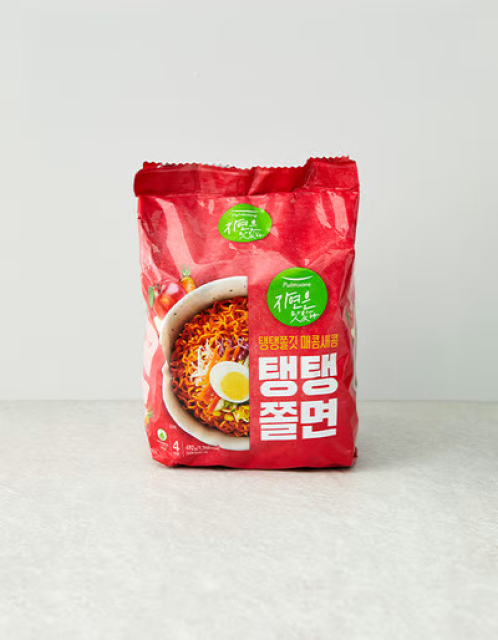
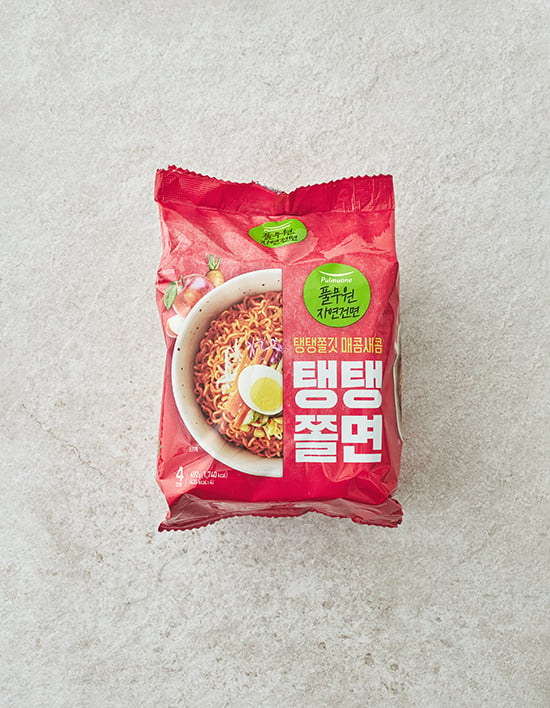
메인페이지 내 상품 이미지 고화질로 변경(lighthouse 권장사항)

diff --git a/client/index.html b/client/index.html
@@ -3,12 +3,13 @@
   <head>
     <meta charset="UTF-8" />
     <meta http-equiv="X-UA-Compatible" content="IE=edge" />
-    <meta name="viewport" content="width=device-width, initial-scale=1.0" />
+    <meta name="keyword" content="마켓칼리, 칼리, 마켓, 쇼핑, 장보기" />
     <meta name="description" content="Market Kurly Imitation" />
+    <meta name="author" content="LikeLion Lab17 Member" />
+    <meta name="viewport" content="width=device-width, initial-scale=1.0" />
     <title>마켓칼리</title>
     <link rel="shortcut icon" href="/favicon.ico" type="image/x-icon" />
-    <link rel="icon" href="/favicon.ico" type="image/x-icon" />
-
+    <link rel="icon" href="./assets/index/favicon.ico" type="image/x-icon" />
     <link
       rel="stylesheet"
       href="https://cdn.jsdelivr.net/npm/swiper@8/swiper-bundle.min.css"
@@ -33,17 +34,26 @@
         <div class="swiper index_visual_swiper">
           <div class="swiper-wrapper">
             <div class="swiper-slide">
-              <img src="./assets/index/main_banner1.jpg" alt="바쁜 일상으로 복귀 추천 한 끼 총집합" />
+              <img
+                src="./assets/index/main_banner1.jpg"
+                alt="바쁜 일상으로 복귀 추천 한 끼 총집합"
+              />
             </div>
             <div class="swiper-slide">
-              <img src="./assets/index/main_banner2.jpg" alt="뷰티컬리에서 산타마리아노벨라 특별 EVENT 진행중!" />
+              <img
+                src="./assets/index/main_banner2.jpg"
+                alt="뷰티컬리에서 산타마리아노벨라 특별 EVENT 진행중!"
+              />
             </div>
             <div class="swiper-slide">
-              <img src="./assets/index/main_banner3.jpg" alt="올해도 빵빵 터지는 문전성시 컬리 빵집" />
+              <img
+                src="./assets/index/main_banner3.jpg"
+                alt="올해도 빵빵 터지는 문전성시 컬리 빵집"
+              />
             </div>
           </div>
           <div class="swiper-pagination"></div>
-          <div class="swiper-button-prev"></div>       
+          <div class="swiper-button-prev"></div>
           <div class="swiper-button-next"></div>
         </div>
       </div>
@@ -51,54 +61,103 @@
         <h2>이 상품 어때요?</h2>
         <!-- Swiper -->
         <div class="swiper index_recommend_product_swiper">
-          <div class="swiper-button-prev"></div>      
+          <div class="swiper-button-prev"></div>
           <div class="swiper-button-next"></div>
           <div class="swiper-wrapper">
             <div class="swiper-slide">
               <ul>
                 <li>
-                  <a class="index_recommend_product_swiper_item" href="./pages/product_detail/product_detail.html" >
-                    <img src="./assets/index/recomment_food1.jpg" alt="풀무원 탱탱쫄면 4개입" />
-                    <p class="recommend_swiper_item_title">[풀무원] 탱탱쫄면 (4개입)</p>
+                  <a
+                    class="index_recommend_product_swiper_item"
+                    href="./pages/product_detail/product_detail.html"
+                  >
+                    <img
+                      src="./assets/index/recomment_food1.jpg"
+                      alt="풀무원 탱탱쫄면 4개입"
+                    />
+                    <p class="recommend_swiper_item_title">
+                      [풀무원] 탱탱쫄면 (4개입)
+                    </p>
                     <p class="recommend_swiper_item_price">4,980 원</p>
                     <div class="recommend_swiper_item_cart" tabindex="0">
-                      <img src="./assets/index/icon_cart.png" alt="장바구니 버튼" />
-                    </div>                    
+                      <img
+                        src="./assets/index/icon_cart.png"
+                        alt="장바구니 버튼"
+                      />
+                    </div>
                   </a>
                 </li>
                 <li>
-                  <a class="index_recommend_product_swiper_item" href="#" >
-                    <img class="thumbnail" src="./assets/index/recomment_food2.jpg" alt="온더바디 죠르디 시카 자석 선쿠션" />
-                    <p class="recommend_swiper_item_title">[온더바디] 죠르디 시카 자석 선쿠션</p>
+                  <a
+                    class="index_recommend_product_swiper_item"
+                    href="./pages/product_detail/product_detail.html"
+                  >
+                    <img
+                      class="thumbnail"
+                      src="./assets/index/recomment_food2.jpg"
+                      alt="온더바디 죠르디 시카 자석 선쿠션"
+                    />
+                    <p class="recommend_swiper_item_title">
+                      [온더바디] 죠르디 시카 자석 선쿠션
+                    </p>
                     <p class="recommend_swiper_item_price">32,500 원</p>
                     <div class="recommend_swiper_item_cart" tabindex="0">
-                      <img src="./assets/index/icon_cart.png" alt="장바구니 버튼" />
-                    </div>                    
+                      <img
+                        src="./assets/index/icon_cart.png"
+                        alt="장바구니 버튼"
+                      />
+                    </div>
                   </a>
-                </li>             
+                </li>
                 <li>
-                  <a class="index_recommend_product_swiper_item" href="#" >
-                    <img class="thumbnail" src="./assets/index/recomment_food3.jpg" alt="유기농 밀키퀸 현미 4kg" />
-                    <p class="recommend_swiper_item_title">유기농 밀키퀸 현미 4kg</p>
+                  <a
+                    class="index_recommend_product_swiper_item"
+                    href="./pages/product_detail/product_detail.html"
+                  >
+                    <img
+                      class="thumbnail"
+                      src="./assets/index/recomment_food3.jpg"
+                      alt="유기농 밀키퀸 현미 4kg"
+                    />
+                    <p class="recommend_swiper_item_title">
+                      유기농 밀키퀸 현미 4kg
+                    </p>
                     <p class="recommend_swiper_item_price">25,000 원</p>
                     <div class="recommend_swiper_item_cart" tabindex="0">
-                      <img src="./assets/index/icon_cart.png" alt="장바구니 버튼" />
-                    </div>                    
+                      <img
+                        src="./assets/index/icon_cart.png"
+                        alt="장바구니 버튼"
+                      />
+                    </div>
                   </a>
-                </li>       
+                </li>
                 <li>
-                  <a class="index_recommend_product_swiper_item" href="#" >
-                    <img class="thumbnail" src="./assets/index/recomment_food4.jpg" alt="프로쉬 베이비 세탁세제" />
-                    <p class="recommend_swiper_item_title">[프로쉬] 베이비 세탁세제</p>
-                    <p class="recommend_swiper_item_price"><span>24%</span>18,900 원</p>
+                  <a
+                    class="index_recommend_product_swiper_item"
+                    href="./pages/product_detail/product_detail.html"
+                  >
+                    <img
+                      class="thumbnail"
+                      src="./assets/index/recomment_food4.jpg"
+                      alt="프로쉬 베이비 세탁세제"
+                    />
+                    <p class="recommend_swiper_item_title">
+                      [프로쉬] 베이비 세탁세제
+                    </p>
+                    <p class="recommend_swiper_item_price">
+                      <span>24%</span>18,900 원
+                    </p>
                     <p class="recommend_swiper_item_origin_cost">24,000 원</p>
                     <div class="recommend_swiper_item_cart" tabindex="0">
-                      <img src="./assets/index/icon_cart.png" alt="장바구니 버튼" />
-                    </div>                    
+                      <img
+                        src="./assets/index/icon_cart.png"
+                        alt="장바구니 버튼"
+                      />
+                    </div>
                   </a>
-                </li>                                                                                      
+                </li>
               </ul>
-            </div>      
+            </div>
           </div>
         </div>
       </section>
@@ -109,57 +168,94 @@
         <h2>놓치면 후회할 가격</h2>
         <!-- Swiper -->
         <div class="swiper index_recommend_product_swiper">
-          <div class="swiper-button-prev"></div>      
+          <div class="swiper-button-prev"></div>
           <div class="swiper-button-next"></div>
           <div class="swiper-wrapper">
             <div class="swiper-slide">
               <ul>
                 <li>
-                  <a class="index_recommend_product_swiper_item" href="#" >
-                    <img src="./assets/index/recomment_food1.jpg" alt="풀무원 탱탱쫄면 4개입" />
-                    <p class="recommend_swiper_item_title">[풀무원] 탱탱쫄면 (4개입)</p>
+                  <a class="index_recommend_product_swiper_item" href="#">
+                    <img
+                      src="./assets/index/recomment_food1.jpg"
+                      alt="풀무원 탱탱쫄면 4개입"
+                    />
+                    <p class="recommend_swiper_item_title">
+                      [풀무원] 탱탱쫄면 (4개입)
+                    </p>
                     <p class="recommend_swiper_item_price">4,980 원</p>
                     <div class="recommend_swiper_item_cart" tabindex="0">
-                      <img src="./assets/index/icon_cart.png" alt="장바구니 버튼" />
-                    </div>                    
+                      <img
+                        src="./assets/index/icon_cart.png"
+                        alt="장바구니 버튼"
+                      />
+                    </div>
                   </a>
                 </li>
                 <li>
-                  <a class="index_recommend_product_swiper_item" href="#" >
-                    <img class="thumbnail" src="./assets/index/recomment_food2.jpg" alt="온더바디 죠르디 시카 자석 선쿠션" />
-                    <p class="recommend_swiper_item_title">[온더바디] 죠르디 시카 자석 선쿠션</p>
+                  <a class="index_recommend_product_swiper_item" href="#">
+                    <img
+                      class="thumbnail"
+                      src="./assets/index/recomment_food2.jpg"
+                      alt="온더바디 죠르디 시카 자석 선쿠션"
+                    />
+                    <p class="recommend_swiper_item_title">
+                      [온더바디] 죠르디 시카 자석 선쿠션
+                    </p>
                     <p class="recommend_swiper_item_price">32,500 원</p>
                     <div class="recommend_swiper_item_cart" tabindex="0">
-                      <img src="./assets/index/icon_cart.png" alt="장바구니 버튼" />
-                    </div>                    
+                      <img
+                        src="./assets/index/icon_cart.png"
+                        alt="장바구니 버튼"
+                      />
+                    </div>
                   </a>
-                </li>             
+                </li>
                 <li>
-                  <a class="index_recommend_product_swiper_item" href="#" >
-                    <img class="thumbnail" src="./assets/index/recomment_food3.jpg" alt="유기농 밀키퀸 현미 4kg" />
-                    <p class="recommend_swiper_item_title">유기농 밀키퀸 현미 4kg</p>
+                  <a class="index_recommend_product_swiper_item" href="#">
+                    <img
+                      class="thumbnail"
+                      src="./assets/index/recomment_food3.jpg"
+                      alt="유기농 밀키퀸 현미 4kg"
+                    />
+                    <p class="recommend_swiper_item_title">
+                      유기농 밀키퀸 현미 4kg
+                    </p>
                     <p class="recommend_swiper_item_price">25,000 원</p>
                     <div class="recommend_swiper_item_cart" tabindex="0">
-                      <img src="./assets/index/icon_cart.png" alt="장바구니 버튼" />
-                    </div>                    
+                      <img
+                        src="./assets/index/icon_cart.png"
+                        alt="장바구니 버튼"
+                      />
+                    </div>
                   </a>
-                </li>       
+                </li>
                 <li>
-                  <a class="index_recommend_product_swiper_item" href="#" >
-                    <img class="thumbnail" src="./assets/index/recomment_food4.jpg" alt="프로쉬 베이비 세탁세제" />
-                    <p class="recommend_swiper_item_title">[프로쉬] 베이비 세탁세제</p>
-                    <p class="recommend_swiper_item_price"><span>24%</span>18,900 원</p>
+                  <a class="index_recommend_product_swiper_item" href="#">
+                    <img
+                      class="thumbnail"
+                      src="./assets/index/recomment_food4.jpg"
+                      alt="프로쉬 베이비 세탁세제"
+                    />
+                    <p class="recommend_swiper_item_title">
+                      [프로쉬] 베이비 세탁세제
+                    </p>
+                    <p class="recommend_swiper_item_price">
+                      <span>24%</span>18,900 원
+                    </p>
                     <p class="recommend_swiper_item_origin_cost">24,000 원</p>
                     <div class="recommend_swiper_item_cart" tabindex="0">
-                      <img src="./assets/index/icon_cart.png" alt="장바구니 버튼" />
-                    </div>                    
+                      <img
+                        src="./assets/index/icon_cart.png"
+                        alt="장바구니 버튼"
+                      />
+                    </div>
                   </a>
-                </li>                                                                                      
+                </li>
               </ul>
-            </div>      
+            </div>
           </div>
         </div>
-      </section>      
+      </section>
       <div class="recent_product">
         <a class="recent_product_arrow_up"></a>
         <p>최근 본 상품</p>
@@ -178,10 +274,11 @@
             <a href="">
               <img src="./assets/index/porklib.jpeg" alt="폭립" />
             </a>
-          </li>                    
+          </li>
         </ul>
         <a class="recent_product_arrow_down"></a>
       </div>
+    </div>
     <iframe data-include="./layout/footer.html" frameborder="0"></iframe>
   </body>
 </html>

diff --git a/client/pages/index/index.css b/client/pages/index/index.css
@@ -24,11 +24,12 @@ a:hover {
 
 .swiper-button-next {
   background: url(../../assets/index/Arrow_right.png) no-repeat;
-  background-position: center;
+  background-size: 100%;
 }
 
 .swiper-button-prev {
   background: url(../../assets/index/Arrow_left.png) no-repeat;
+  background-size: 100%;
 }
 
 .swiper-button-next::after,

diff --git a/client/css/common.css b/client/css/common.css
@@ -491,6 +491,7 @@ body {
   width: 100%;
   text-align: center;
   color: var(--gray-500);
+  box-sizing: border-box;
 }
 
 .footer_bottom p {
